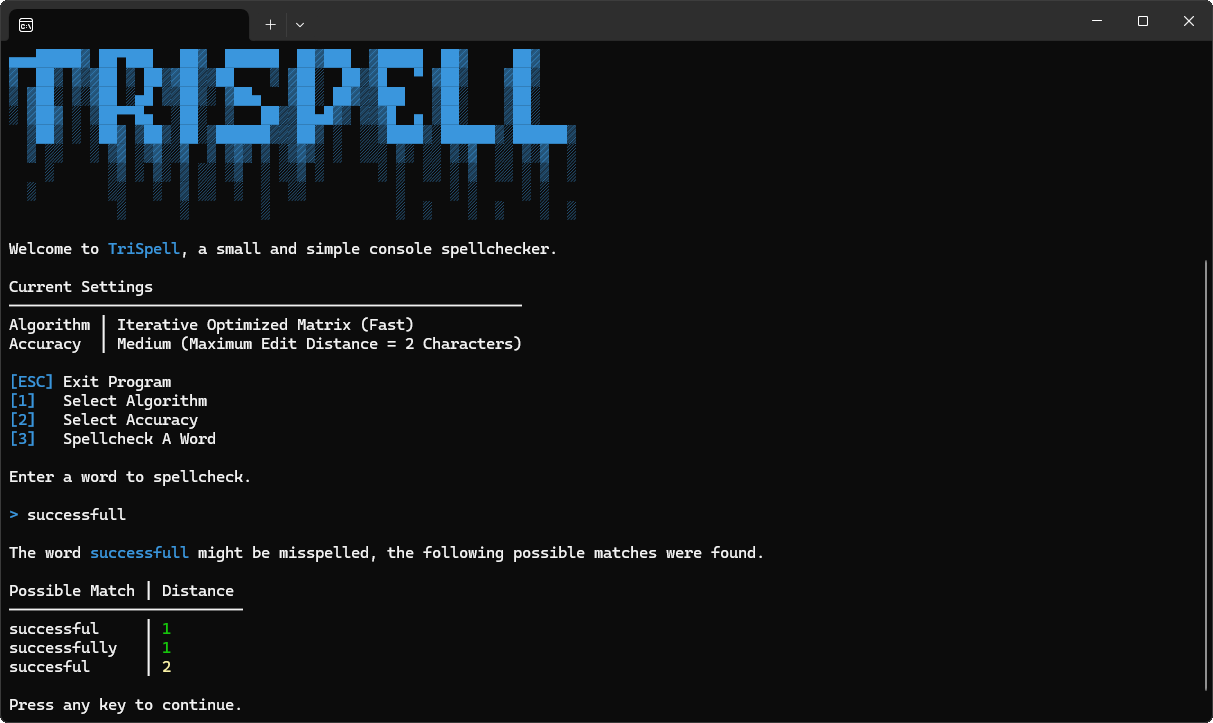
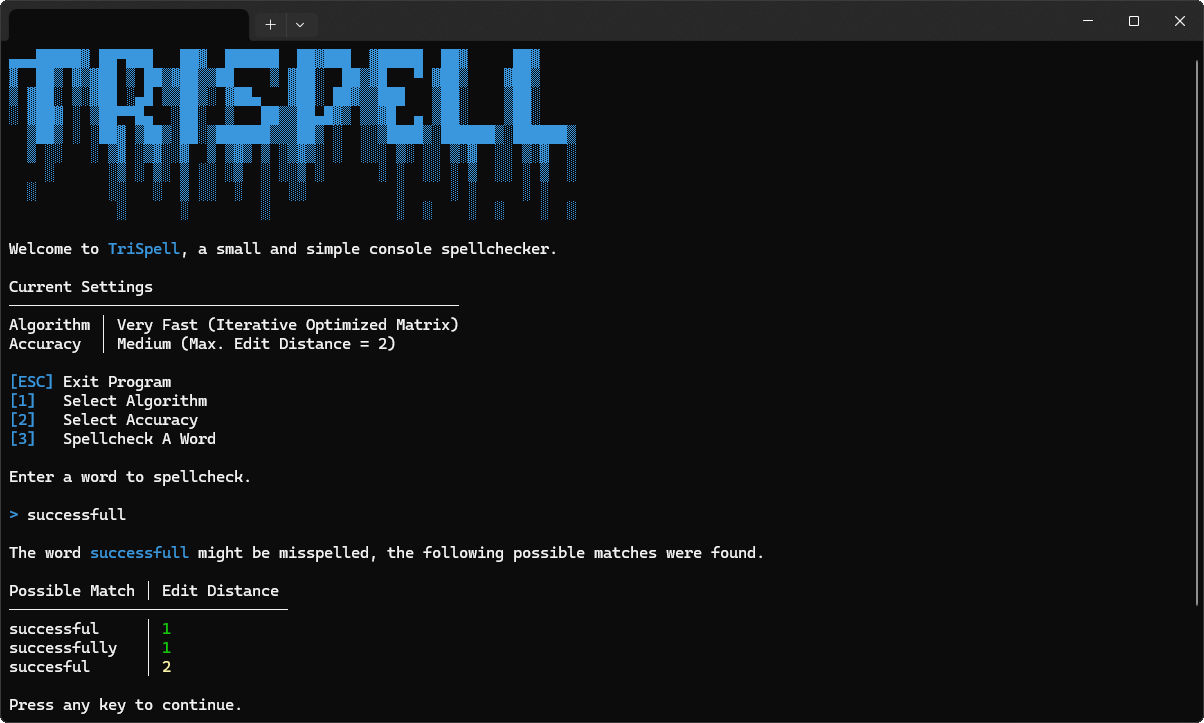
Improve option descriptions.

diff --git a/Source/Program.cs b/Source/Program.cs
@@ -41,9 +41,9 @@ internal sealed class Program {
     /// <summary>Description displayed for each <see cref="Accuracy"/>.</summary>
     private static readonly FrozenDictionary<Accuracy, string> AccuracyToDescription =
         FrozenDictionary.ToFrozenDictionary([
-            KeyValuePair.Create(Accuracy.Low, "Low (Maximum Edit Distance = 3 Characters)"),
-            KeyValuePair.Create(Accuracy.Medium, "Medium (Maximum Edit Distance = 2 Characters)"),
-            KeyValuePair.Create(Accuracy.High, "High (Maximum Edit Distance = 1 Character)")
+            KeyValuePair.Create(Accuracy.Low, "Low (Max. Edit Distance = 3)"),
+            KeyValuePair.Create(Accuracy.Medium, "Medium (Max. Edit Distance = 2)"),
+            KeyValuePair.Create(Accuracy.High, "High (Max. Edit Distance = 1)")
         ]);
 
     /// <summary>Maximum allowed edit distance for each <see cref="Accuracy"/>.</summary>
@@ -74,15 +74,15 @@ internal sealed class Program {
         FrozenDictionary.ToFrozenDictionary([
             KeyValuePair.Create<IDistanceCalculator, string>(
                 RecursiveCalculator.Instance,
-                "Recursive (Slow)"
+                "Slow (Recursive)"
             ),
             KeyValuePair.Create<IDistanceCalculator, string>(
                 IterativeFullMatrixCalculator.Instance,
-                "Iterative Full Matrix (Medium)"
+                "Fast (Iterative Full Matrix)"
             ),
             KeyValuePair.Create<IDistanceCalculator, string>(
                 IterativeOptimizedMatrixCalculator.Instance,
-                "Iterative Optimized Matrix (Fast)"
+                "Very Fast (Iterative Optimized Matrix)"
             )
         ]);
 
@@ -286,7 +286,7 @@ internal sealed class Program {
                     ForegroundColor
                 );
                 int maxTargetLength = possibleMatches.Max(match => match.Target.Length);
-                string header = "\nPossible Match".PadRight(maxTargetLength) + " │ Distance";
+                string header = "\nPossible Match".PadRight(maxTargetLength) + " │ Edit Distance";
                 WriteLineColored(header, ForegroundColor);
                 WriteLineColored(new string('─', header.Length), ForegroundColor);
                 foreach ((string target, int editDistance) in possibleMatches) {
